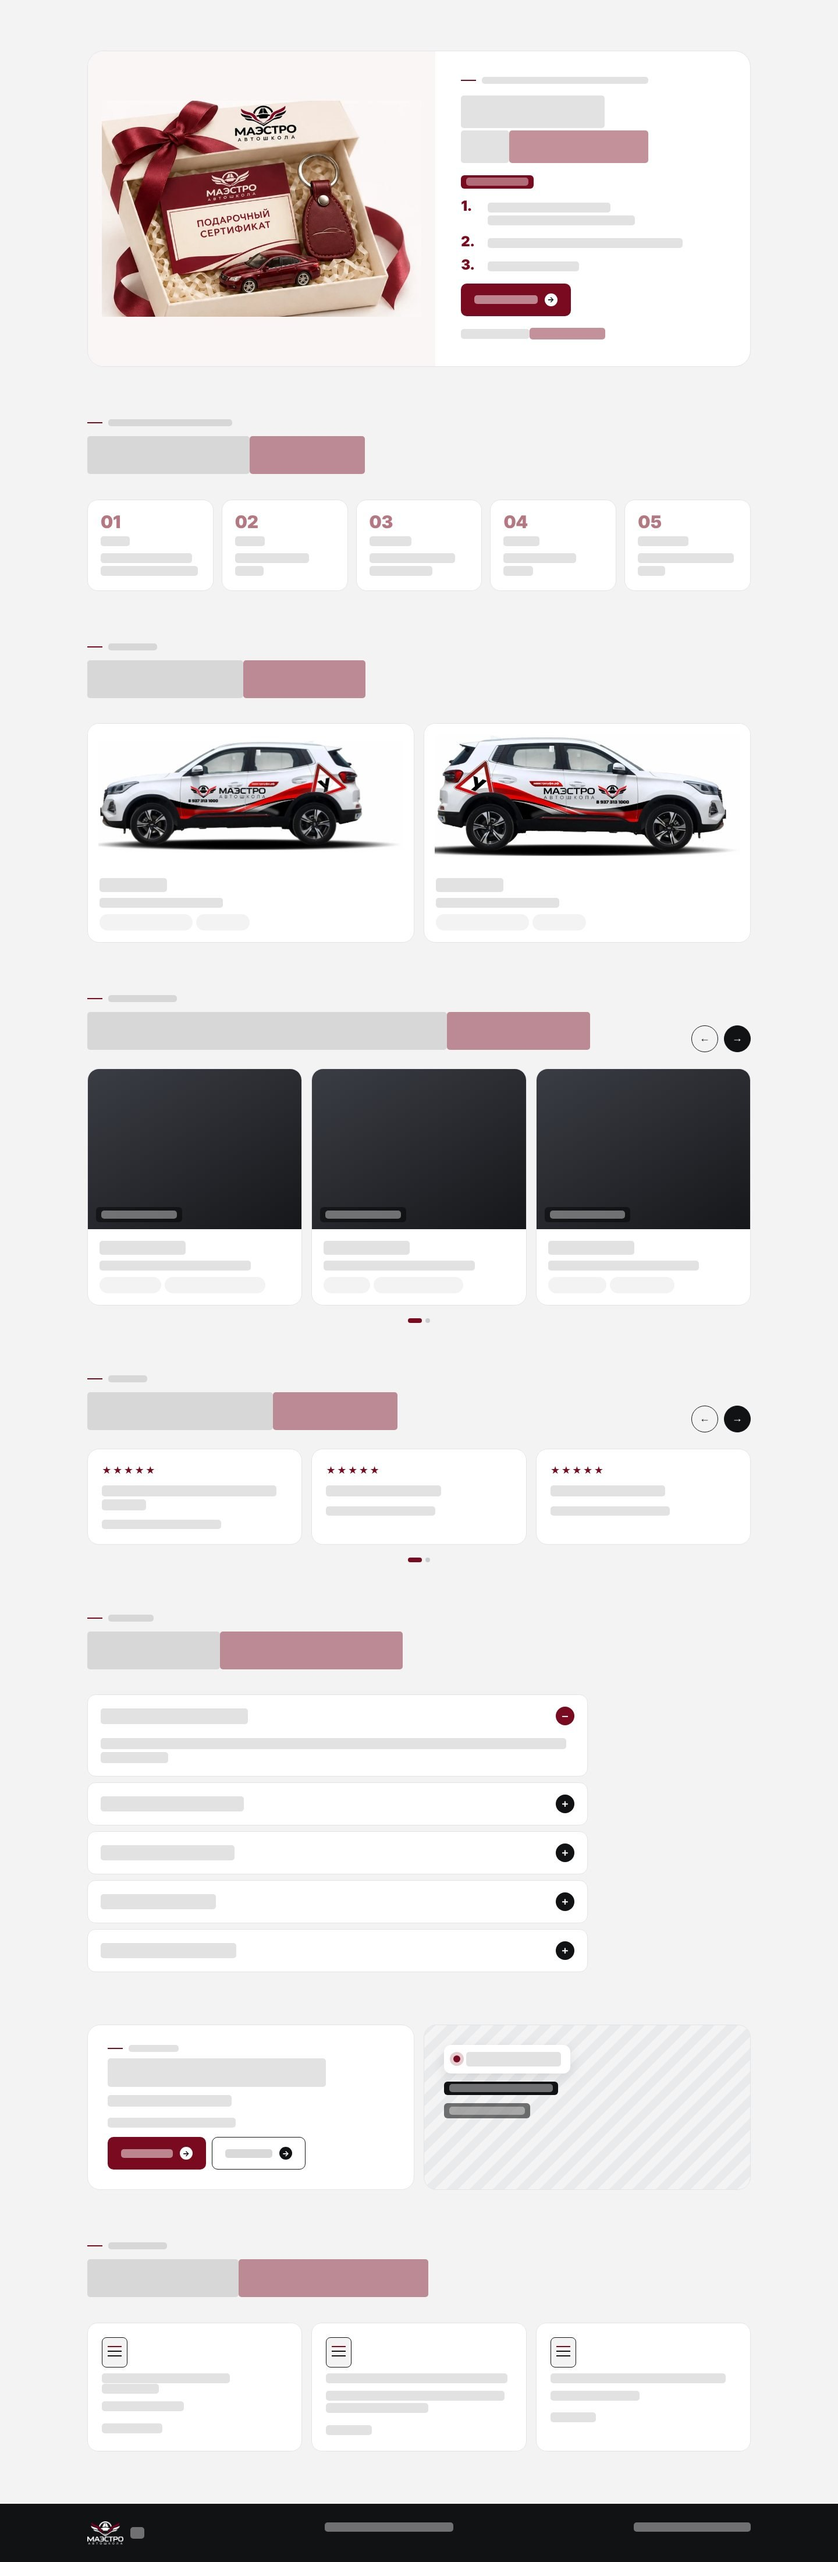
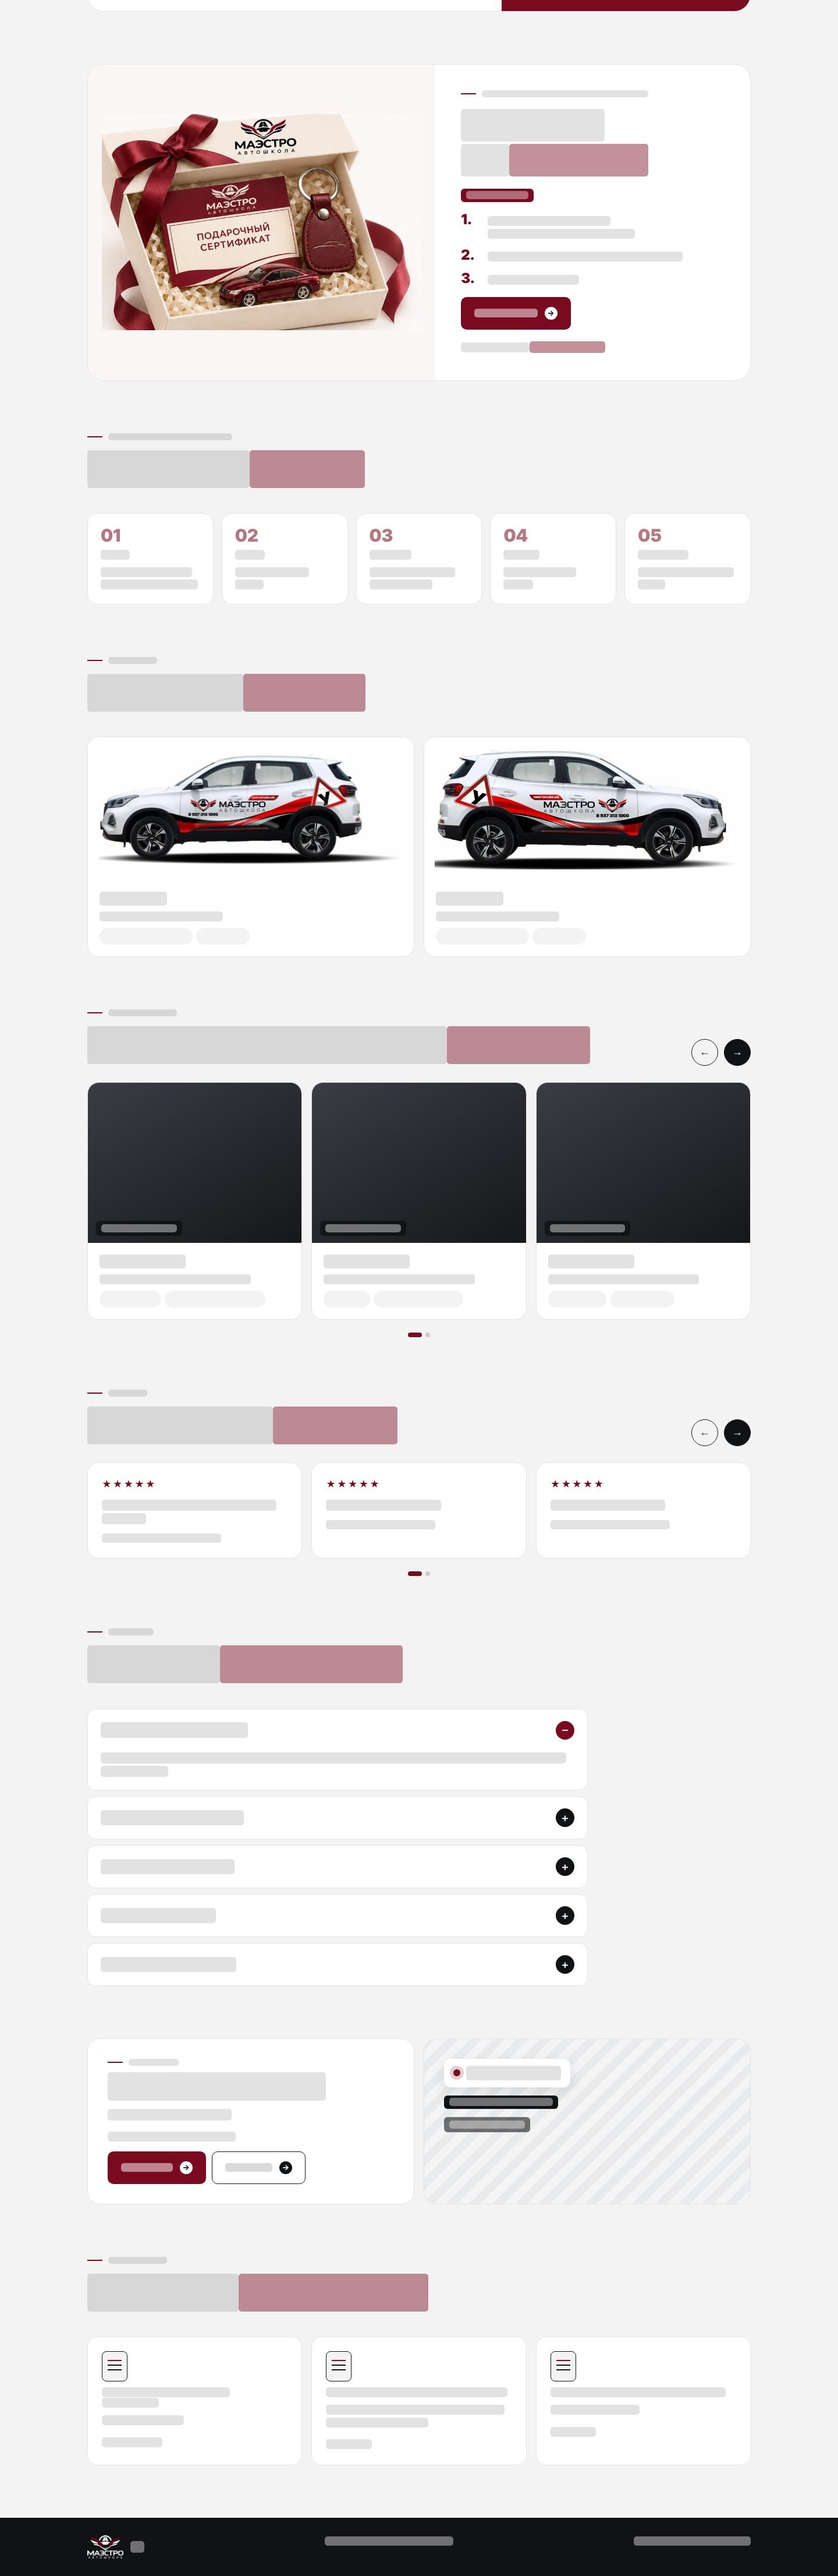
Новый заголовок «Автошкола в Уфе. Не кричим, не торопим, учим водить»: макет, картинки, заметка, задание
Claude-Session: https://claude.ai/code/session_01WFLegkwxfADv4uj7s7mNMt

diff --git a/maestro/визуал/visual.html b/maestro/визуал/visual.html
@@ -381,7 +381,7 @@ footer b{color:var(--white)}
 .gift-phone b{color:var(--red);font-size:16px}
 @media (max-width:1000px){.gift{grid-template-columns:1fr}}
 @media (max-width:620px){.gift-txt{padding:24px}}
-.rv{opacity:1!important;transform:none!important}.svc::after,.quiz .side::after,.meet .side::before{display:none!important}
+.h1-top{display:block;font-size:.42em;letter-spacing:.01em;margin-bottom:.25em;color:var(--ink-2)}.rv{opacity:1!important;transform:none!important}.svc::after,.quiz .side::after,.meet .side::before{display:none!important}
 .sk{color:transparent!important;background:var(--skc,rgba(17,18,20,.12));border-radius:5px;-webkit-box-decoration-break:clone;box-decoration-break:clone}
 .quiz .side,.meet .side,footer,.btn.primary,.btn.black,.tag:not(.light),.ph-label,.round.fill{--skc:rgba(255,255,255,.4)}
 .meet .side .btn.primary,.tag.light,.btn.outline{--skc:rgba(17,18,20,.16)}
@@ -411,9 +411,9 @@ h1,h2,.group h3,.meet h2,.quiz h2{line-height:1.32!important}
     </div>
     <div class="hl-grid">
       <div class="copy">
-        <span class="eyebrow">Автошкола «Маэстро» · категория B</span>
+        <span class="eyebrow">«Маэстро» · категория B</span>
         <span class="tag">Теория 9 990 ₽ для первых 50 договоров</span>
-        <h1>Автошкола в Уфе <span class="red">без крика</span> и стресса</h1>
+        <h1><span class="h1-top">Автошкола в Уфе</span>Не кричим, не&nbsp;торопим, <span class="red">учим водить</span></h1>
         <p class="lead">Права категории B с инструктором под ваш характер. Группы до 12 человек, знакомство с инструктором бесплатно.</p>
         <div class="actions"><a class="btn primary" href="#promo">Записаться <span class="ar">→</span></a><a class="link" href="#meet">Познакомиться с инструктором</a></div>
         <div class="minis">

diff --git a/заметки/Маэстро/01 — Заголовок первого экрана и SEO для Тильды.md b/заметки/Маэстро/01 — Заголовок первого экрана и SEO для Тильды.md
@@ -8,9 +8,11 @@
 
 ## Ответ (можно отправить клиенту)
 
-**Главный заголовок (два варианта на выбор):**
-- Вариант 1: «Автошкола в Уфе без крика и стресса»
-- Вариант 2: «Права категории B в Уфе. Без крика и стресса.»
+**Главный заголовок** (обновлено 19.11.2026):
+- Верхняя строка, помельче: «Автошкола в Уфе»
+- Крупно: «Не кричим, не торопим, учим водить» («учим водить» — бордовым)
+
+Обе строки — один заголовок H1, так что город остаётся в нём для поиска.
 
 **Почему так:**
 - **Поиск и нейросети.** В заголовке прямо сказано, что это (автошкола, права категории B), где (Уфа) и чем отличается (без крика). Люди так и ищут: «автошкола в Уфе», «права категории B Уфа», «автошкола, где не кричат». Нейросети охотнее цитируют страницы, где ответ сформулирован прямо, без метафор.
@@ -18,15 +20,15 @@
 - **Без «сдадите с первого раза».** Такое обещание пишут все конкуренты, а у новой школы пока нет статистики, чтобы его подтвердить.
 
 **Рядом с заголовком:**
-- Плашка над заголовком: «Теория 9 900 ₽ · старт 23 ноября»
-- Надзаголовок: «Автошкола «Маэстро» · категория B»
+- Плашка над заголовком: «Теория 9 990 ₽ для первых 50 договоров»
+- Надзаголовок: «Маэстро» · категория B
 - Подзаголовок: «Права категории B с инструктором под ваш характер. Группы до 12 человек, знакомство с инструктором бесплатно.»
 
 **Настройки в Тильде:**
 1. В настройках блока у главного заголовка выбрать тег **H1**. На странице он должен быть один.
 2. Настройки страницы → SEO:
-   - **Title:** Автошкола в Уфе «Маэстро» — права категории B без крика и стресса
-   - **Description:** Обучение на права категории B в Уфе. Инструктор под ваш характер, группы до 12 человек, теория от 9 900 ₽, оплата вождения частями. Знакомство с инструктором бесплатно.
+   - **Title:** Автошкола в Уфе «Маэстро» — не кричим, не торопим, учим водить
+   - **Description:** Обучение на права категории B в Уфе. Инструктор под ваш характер, группы до 12 человек, теория от 9 990 ₽, оплата вождения частями. Знакомство с инструктором бесплатно.
 3. Блок «Вопросы» оставить обычным текстом, не картинками: нейросети берут ответы оттуда.
 
 **Запасные варианты заголовка:**

diff --git a/maestro/Задание — перенос в Тильду.md b/maestro/Задание — перенос в Тильду.md
@@ -16,10 +16,10 @@
 **Порядок:**
 1. Настройки сайта:
    - шрифты Inter Tight (заголовки) и Inter (текст) из Google Fonts, либо похожие из библиотеки Тильды;
-   - цвета: красный `#E3161B` (акцент, кнопки), почти чёрный `#111214` (текст, тёмные блоки), фон `#F3F3F4`.
+   - цвета: бордовый `#7A0A1F` (акцент, кнопки, как в логотипе), почти чёрный `#111214` (текст, тёмные блоки), фон `#F3F3F4`.
 2. Блоки сверху вниз, тексты из документа:
    1. меню;
-   2. обложка с фото, заголовком «Автошкола в Уфе без крика и стресса» и параллаксом;
+   2. обложка с фото, заголовком «Автошкола в Уфе. Не кричим, не торопим, учим водить», фото машины в оклейке справа;
    3. цифры: 12 / 90 / 0 ₽;
    4. о школе;
    5. «Что вы получаете» — 4 карточки;
@@ -43,10 +43,10 @@
    Приём заявок (Telegram, почта, Google-таблица) подключу сам, если ты не сможешь.
 5. Анимации:
    - один эффект появления снизу для всех блоков;
-   - кнопки при наведении становятся `#B80F13`.
+   - кнопки при наведении становятся `#5C0717`.
 6. SEO: тег H1 у главного заголовка.
-   - **Title:** Автошкола в Уфе «Маэстро» — права категории B без крика и стресса
-   - **Description:** Обучение на права категории B в Уфе. Инструктор под ваш характер, группы до 12 человек, теория от 9 900 ₽, оплата вождения частями. Знакомство с инструктором бесплатно.
+   - **Title:** Автошкола в Уфе «Маэстро» — не кричим, не торопим, учим водить
+   - **Description:** Обучение на права категории B в Уфе. Инструктор под ваш характер, группы до 12 человек, теория от 9 990 ₽, оплата вождения частями. Знакомство с инструктором бесплатно.
 
 Тексты в [квадратных скобках] не выдумывай: оставь как есть и в конце дай мне их список.
 
